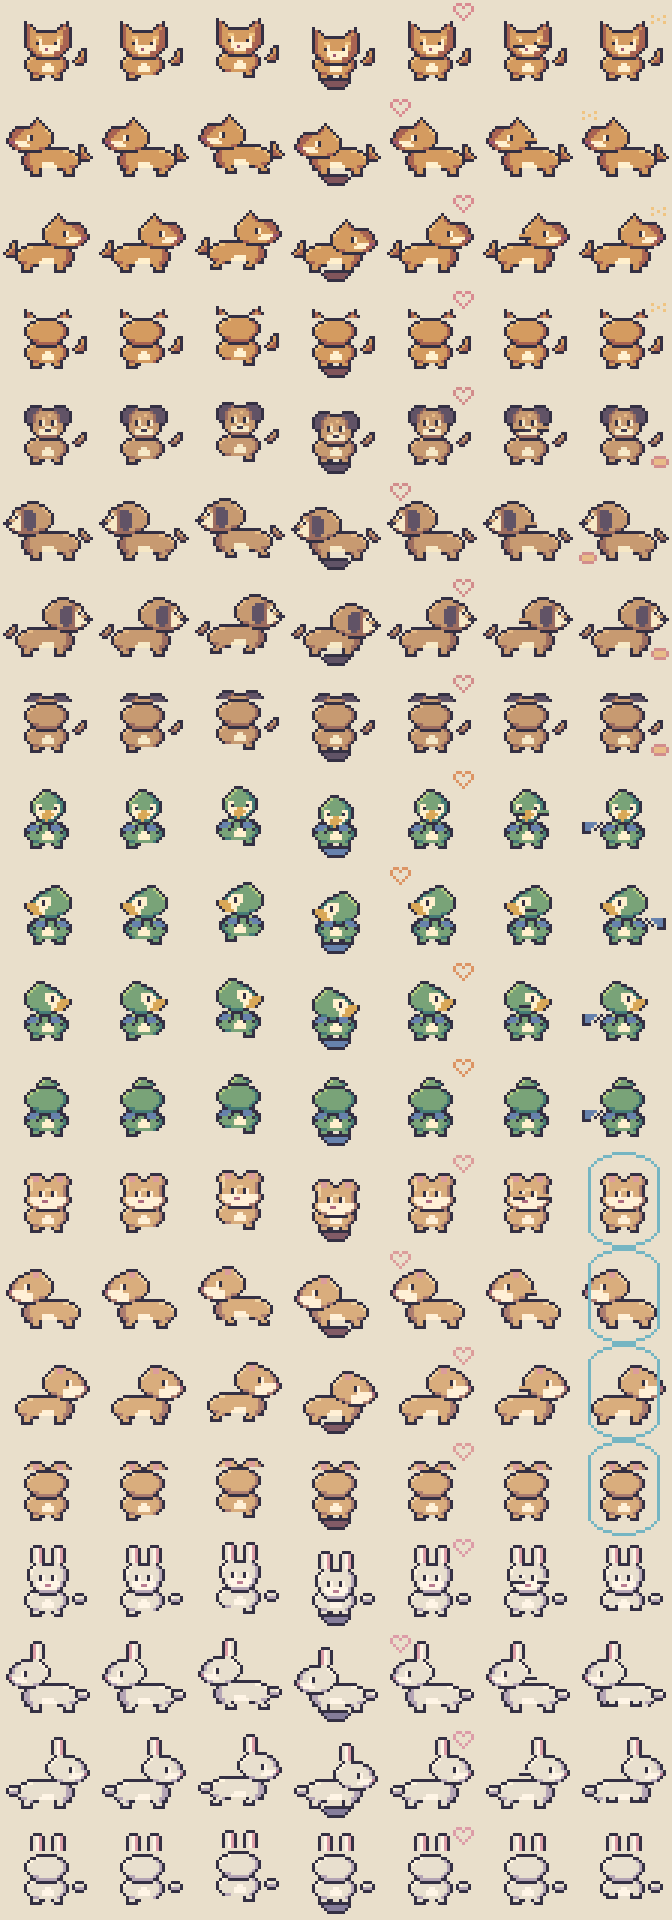
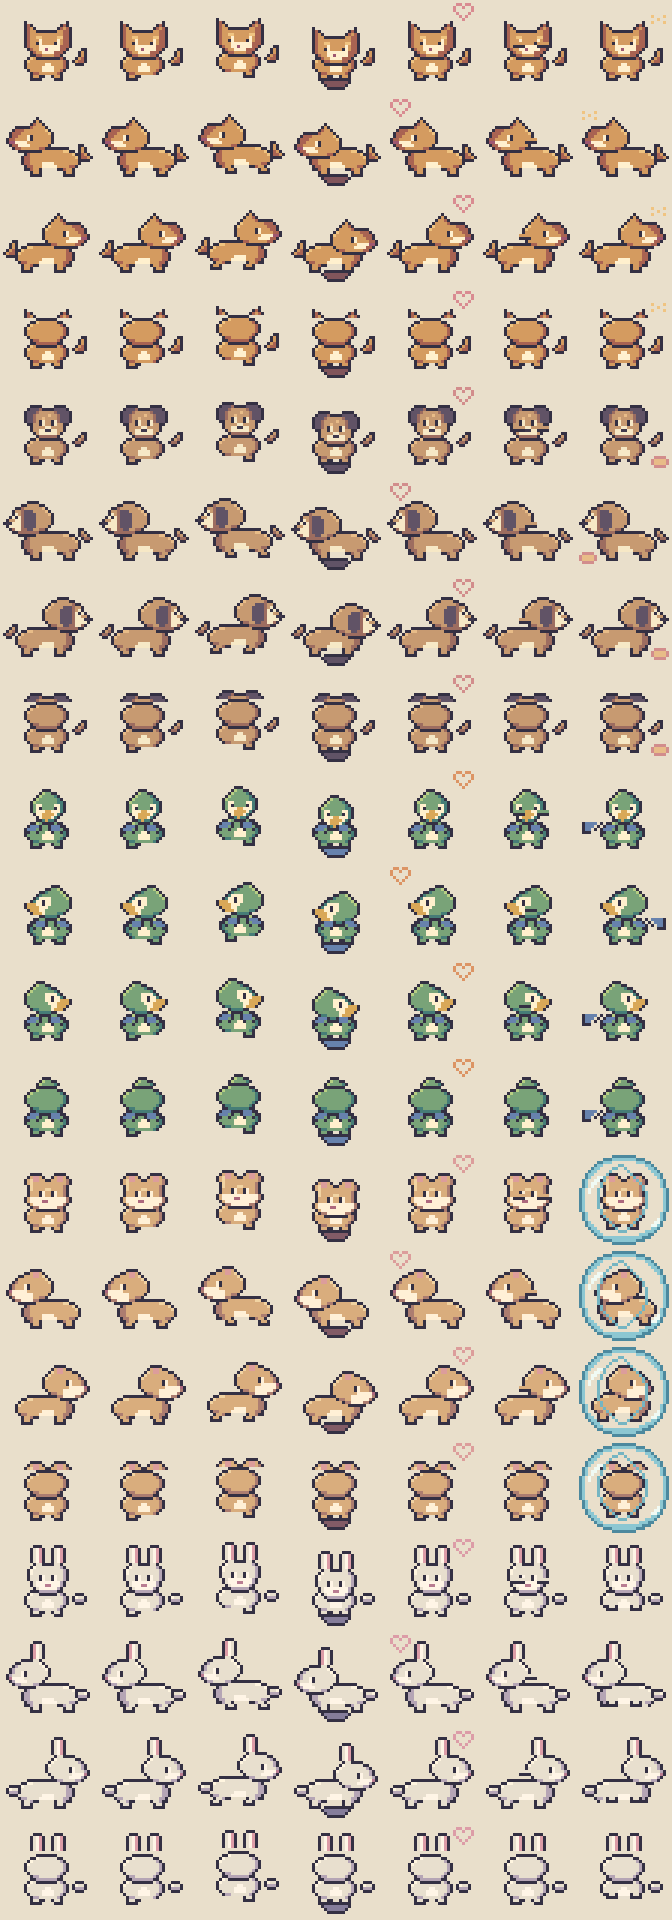
Fix hamster ball silhouette and record verified candidate

Changed region(s): [[0.8438, 0.5938, 1.0, 0.8125]]

diff --git a/scripts/render-pixel-animals.py b/scripts/render-pixel-animals.py
@@ -20,14 +20,14 @@ for species,art in data['animals'].items():
    if frame in [1,2]:
     body[-2]=('...oFFo.......oFFo..' if frame==1 else '.oFFo.......oFFo....') if quadruped else ('..oFFoo.........' if frame==1 else '.........oFFo...')
     body[-1]=('...oooo.......oooo..' if frame==1 else '.oooo.......oooo....') if quadruped else ('..oooo..........' if frame==1 else '.........oooo...')
-   grid(body,5 if quadruped else 8,17+bob)
+   grid(body,5 if quadruped else 8,(16 if species=='hamster' and frame==6 else 17)+bob)
    face=art['front'] if direction==0 else art['right'] if direction in [1,2] else data['back']
    # Long rabbit ears have room above the eye line; all feet share the same anchor.
    y=3 if species=='rabbit' else 7
    if direction==3:
     grid(art['front'][:6] if species=='rabbit' else art['front'][:3],8,y+bob)
     grid(face,8,10+bob)
-   else:grid(face,14 if quadruped else 8,y+bob+(2 if frame==3 else 0))
+   else:grid(face,(10 if species=='hamster' and frame==6 else 14) if quadruped else 8,y+bob+(2 if frame==3 else 0))
    if species=='parrot':grid(['.oHHHo..oHHHo.','oHHHho..oHHHho','.ohho....ohho.'],8,19+bob)
    if species=='cat':grid(['...oo','..oFo','..oFo','.oFfo','oFffo','.ooo.'],1 if quadruped else 24,16+bob)
    if species=='dog':grid(['...oo','..oFo','.oFfo','offo.','.oo..'],1 if quadruped else 24,16+bob)
@@ -39,10 +39,7 @@ for species,art in data['animals'].items():
     if direction==0:grid(['FFFF','oooo'],19,14+bob)
    if frame==6:
     if species=='hamster':
-     p={**p,'b':'#75b5c2','B':'#d4efec'}
-     grid(['........bbbbbbbb........','.....bbb........bbb.....','...bb..............bb...','..b..................b..','.b....................b.','b......................b'],4,0)
-     grid(['b......................b','.b....................b.','..b..................b..','...bb..............bb...','.....bbb........bbb.....','........bbbbbbbb........'],4,26)
-     for y in range(6,26):grid(['b......................b'],4,y)
+     pass # The spherical shell is drawn after direction mirroring to keep lighting consistent.
     elif species=='rabbit':
      for y in range(25,28):
       for x in range(7,25):im.putpixel((x,y),(0,0,0,0))
@@ -51,6 +48,8 @@ for species,art in data['animals'].items():
     elif species=='parrot':grid(['oHHHHho','oHHHho.','oHHho..','ooo....'],2,18)
     else:grid(['L...L','..L..','L...L'],25,5)
    if direction==1:im=im.transpose(Image.Transpose.FLIP_LEFT_RIGHT)
+   if species=='hamster' and frame==6:
+    p={**p,**data['hamsterBall']['palette']};grid(data['hamsterBall']['rows'],0,0)
    sheet.alpha_composite(im,(frame*32,direction*32))
  sheet.save(out/f'pet-{species}-sheet.png');previews.append(sheet)
  # Keep existing frame contract, animation semantics, anchors and movement footprint.

diff --git a/docs/VERIFICATION.md b/docs/VERIFICATION.md
@@ -1,12 +1,51 @@
+# Publication candidate — 15 November 2026
+
+Owner explicitly requested “pushea y mergea”, superseding the earlier local-only restriction for these changes. The implementation is already on `main` (base candidate `a4d573f`); a fresh fetch found no divergence and GitHub has no open PR to merge. Push `main` normally, including the corrected hamster ball and this verification record. Do not force push or create a new installer release.
+
+Scope: temporary guest hosting/joining while preserving the locked identity, rapid-ink rendering improvements, new original pixel cast, and the circular hamster ball. The subsequent audio discussion was diagnosis only: no voice-meter, TURN, or audio-delivery fix is included.
+
+Completed local checks are recorded below, including 596 unit tests, Chromium/local WebRTC/server journeys, 15 production WebKit cases, package/cache upgrades, and the final hamster correction's two focused browser checks and production build. Current local production cache: `studyvillage-176fe9b2156b54e2`.
+
+Remaining: push the correction commit, record the candidate SHA and workflow run, wait for [Publish StudyVillage](https://github.com/Javpato/studyvillage/actions/workflows/pages.yml), and verify the published service worker against the current build. Until deployment succeeds this is a candidate, not a verified publication. Physical iPad/Pencil and cross-network audio remain unverified.
+
+---
+
+# Local hamster ball correction — 15 November 2026
+
+Redrew the four hamster ball frames with a circular 30×30 rim, transparent interior, curved seams and fixed upper-left highlights. The side-facing hamster now fits fully inside the shell. Native frame dimensions, anchor, animation indices and saved ball state are unchanged. Other hamster frames and all other animal sheets are byte-for-byte unchanged.
+
+Verified: visual review on light/dark backgrounds; both existing hamster persistence/removal and directional sprite checks passed in Chromium; type checks and local production build passed. Current local cache: `studyvillage-176fe9b2156b54e2`. Preview: `docs/images/pixel-cast/hamster-ball.png`. Local-only follow-up to `a4d573f`; no commit, push, or publication for this small correction. Task-owned test output removed; current builds retained.
+
+---
+
+# Local guest hosting, rapid ink, and pixel cast — 15 November 2026
+
+Owner requested **local preview only** during implementation: do not push or publish this candidate. Local candidate commit: `a4d573f`. It has not been pushed; no workflow was triggered. This verification document retains the owner’s pre-existing edits and remains outside the candidate commit. Existing verification edits below are preserved.
+
+Implemented candidate: guest identity selection while the saved key stays encrypted; guest server sessions cannot claim residency; revision-based board rendering and committed-layer cache; render-loop recovery; original editable human and animal pixel grids and exports. Local preview: http://127.0.0.1:3100/ .
+
+Completed locally:
+- Full validation: 559 application + 37 server unit tests; types; 2921 ES/EN/FR messages; web/PWA/server builds. Final local cache: `studyvillage-cd9c701de3635ffb`.
+- Chromium: all 11 existing Pencil/large-board checks passed; all 4 new guest/rapid-ink journeys passed, including a locked saved identity hosting a signed village and a second local browser joining. PeerJS discovery/signaling was intercepted inside the test; real WebRTC data channels and signed authentication ran locally with no external STUN.
+- All 4 server browser journeys passed, including a locked saved identity entering as a visitor while retaining its encrypted key, shared ink moderation, server restart, and custom avatar transfer. Both sprite-rendering checks and 7 wardrobe/pet-expression journeys passed.
+- Production WebKit: 15 tablet/touch/guest/large-board/rapid-ink cases passed; the Chromium-only local WebRTC check was intentionally skipped. New rapid-ink coverage saves 80 strokes on empty and 2500-object boards, survives an injected canvas failure, undoes correctly, and persists after reload without pressing Back.
+- Packaged application/offline and legacy sprite-cache upgrades passed in Chromium and WebKit; 190 packaged files verified. Human direction sheets reviewed against light/dark backgrounds and in the actual village; animal palettes/alpha/directions/walking checked.
+
+Test corrections: unlock is opened through Identity settings because the existing UI starts with its overlay dismissed. Shared ink tests now inspect persisted stroke counts rather than the status label that shows save progress. The old hard-coded two-eye pixel assertion was replaced with validation of the new original directional sheets, crisp alpha, bounded palette and distinct walking poses. No runtime failure assertion was removed.
+
+Limits: physical iPad/Pencil and cross-network connections were not tested. No GitHub workflow, deployment, release, or installer build was requested or run. Local preview remains at http://127.0.0.1:3100/ . The current web/server builds and sprite source/preview artifacts are retained; task-owned temporary scripts and test output are removed.
+
+---
+
 # Whiteboard update — 14 November 2026
 
-Owner explicitly authorized pushing this implementation to `https://github.com/Javpato/studyvillage` on `main`. Candidate `5b4ed6a` passed and published through [Pages 43616159083](https://github.com/Javpato/studyvillage/actions/runs/43616159083). The final sharing/recovery changes in this checkpoint supersede it; publication status must be checked after their push. Native dev.11 installers are unchanged.
+Owner explicitly authorized pushing this implementation to `https://github.com/Javpato/studyvillage` on `main`. Candidate `5b4ed6a` passed and published through [Pages 43616159083](https://github.com/Javpato/studyvillage/actions/runs/43616159083). Final source [`28e1d32`](https://github.com/Javpato/studyvillage/commit/28e1d32dbef18fd861fc66acd95fe32e87e9eeac) is verified and published by [Pages 43617345879](https://github.com/Javpato/studyvillage/actions/runs/43617345879), completed successfully at 16:47:43 UTC. The public service worker matches the tested local build byte for byte: `studyvillage-4c606dcc7a799bf1`. Native dev.11 installers are unchanged.
 
 Implemented: device IndexedDB storage with verified legacy migration, no lifetime operation/selection caps, large erase/clear/copy/cut/paste/duplicate operations with grouped undo, persistent clipboard, bucket fill, and animal/avatar previous-frame shadows and copying underneath. Network messages remain bounded internally: server snapshots are batched; peers acknowledge each edit batch; companion snapshots are paged. Pending edits retain their author/board/session scope and acknowledged progress. Received shared drawings are cached locally; failed device writes retain unsaved strokes for export and retry. Legacy rich-shape backups are converted without dropping shapes. Both devices must update: server protocol 8, companion 5, peer board capability 3.
 
 Completed locally:
 
-- Full suite: 558 client + 37 server tests passed; the additional legacy-board backup regression and identity-backup checks passed (11 focused tests). Types, 2918 ES/EN/FR messages, web/PWA/server builds passed.
+- Final CI suite: 559 client + 37 server tests passed; legacy-board backup and identity-backup checks also passed locally (11 focused tests). Types, 2918 ES/EN/FR messages, web/PWA/server builds passed.
 - Chromium: migration of 2500 objects, copying/duplicating/pasting to 5000, clearing a complete layer and undoing it once, reload persistence, enclosed whiteboard fill/undo/reload, animal bucket/shadow/composite/undo, and backup/recovery journeys passed.
 - Production WebKit: 14 touch/layout/Pencil/eraser/large-board checks passed. All 4 final feature cases passed, including simulated storage failure preserving the saved drawing and retrying the unsaved stroke. These are browser simulations, not physical iPad/Pencil certification.
 - Local peer integration: signed 2200-object edits and deletes with batch acknowledgments passed. Local companion browser test: 2200-object paged snapshot plus bounded bulk commit passed.
@@ -16,7 +55,7 @@ External live-pair testing was rejected by automatic approval review because the
 
 First candidate `0731cd2` failed its server snapshot regression in [43615522858](https://github.com/Javpato/studyvillage/actions/runs/43615522858); the initial reset now carries the first batch and the corrected server suite passes. Large selection testing also removed quadratic cleanup and undo loops. Original user documentation edits below were preserved.
 
-Remaining: push the final sharing/recovery candidate, record its SHA and Pages workflow result, and remove task-owned test output. Retain the current builds and existing installers.
+Completed: final Pages workflow and public service-worker verification. Task-owned test output, logs and temporary scripts removed; current web/server builds and release-current installers retained. No required implementation work remains. Verification limits remain the physical iPad/Pencil and external signaling checks described above.
 
 ---
 
